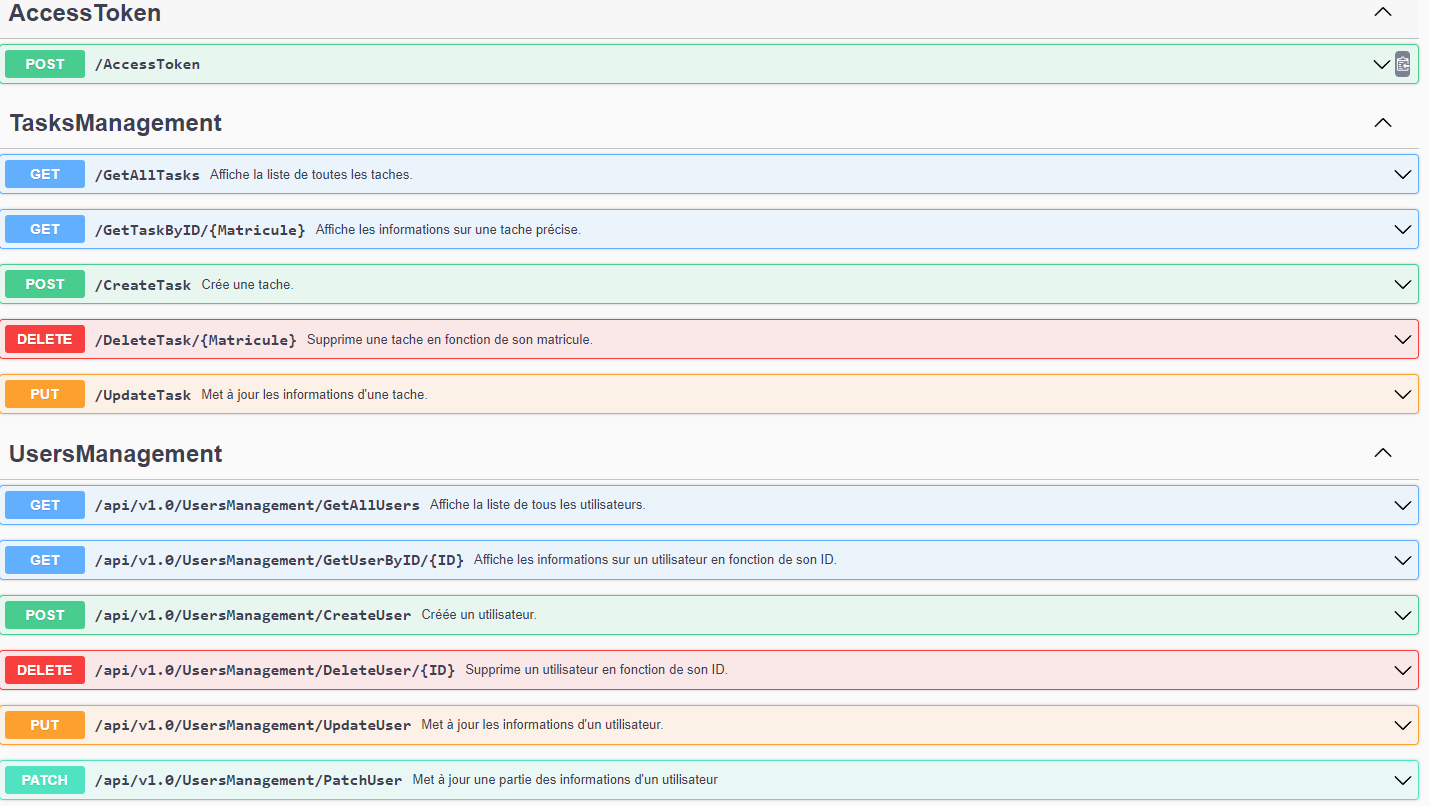
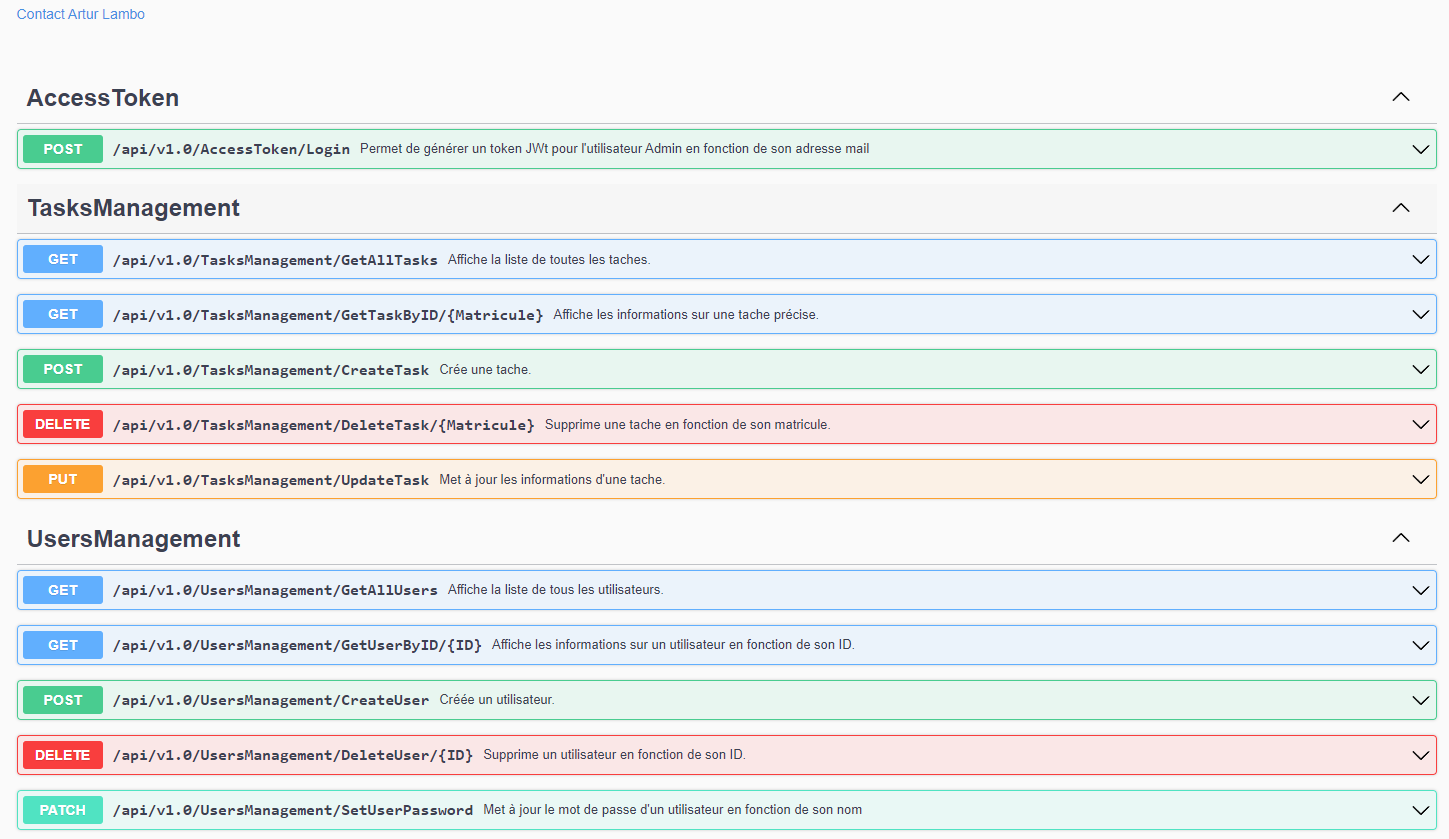
Maj du TasksManagement_API/Controllers/TasksManagementController.cs

Changed region(s): [[0.0, 0.062, 1.0, 0.9926], [0.0, 0.0, 0.1231, 0.031]]

diff --git a/TasksManagement_API/Controllers/TasksManagementController.cs b/TasksManagement_API/Controllers/TasksManagementController.cs
@@ -3,10 +3,8 @@ using Microsoft.AspNetCore.Mvc;
 using TasksManagement_API.Interfaces;
 using TasksManagement_API.Models;
 namespace TasksManagement_API.Controllers;
-
 [ApiController]
-//[Area("TasksDocumentation")]
-[Route("api/v1.0/")]
+[Route("api/v1.0/[controller]/")]
 
 public class TasksManagementController : ControllerBase
 {
@@ -23,7 +21,7 @@ public class TasksManagementController : ControllerBase
 	/// </summary>
 	/// <returns></returns>
 	[Authorize(Policy = "UserPolicy")]
-	[HttpGet("~/GetAllTasks")]
+	[HttpGet("GetAllTasks/")]
 	public async Task<IActionResult> GetAllTasks()
 	{
 		var taches = await readMethods.GetTaches();
@@ -36,7 +34,7 @@ public class TasksManagementController : ControllerBase
 	/// <param name="Matricule"></param>
 	/// <returns></returns>
 	[Authorize(Policy = "UserPolicy")]
-	[HttpGet("~/GetTaskByID/{Matricule:int}")]
+	[HttpGet("GetTaskByID/{Matricule:int}")]
 	public async Task<IActionResult> SelectTask(int Matricule)
 	{
 		try
@@ -59,7 +57,7 @@ public class TasksManagementController : ControllerBase
 	/// </summary>
 	/// <param name="tache"></param>
 	/// <returns></returns>
-	[HttpPost("~/CreateTask")]
+	[HttpPost("CreateTask/")]
 	public async Task<IActionResult> CreateTask([FromBody] Tache tache)
 	{
 		try
@@ -76,14 +74,13 @@ public class TasksManagementController : ControllerBase
 				}
 			};
 			var listTaches = await readMethods.GetTaches();
-			foreach (var item in listTaches)
-			{
-				if (item.Matricule == tache.Matricule)
-				{
+			var tacheExistante = listTaches.FirstOrDefault(item => item.Matricule == tache.Matricule);
 
-					return Conflict("Cette tache est déjà présente");
-				}
+			if (tacheExistante != null)
+			{
+				return Conflict("Cette tache est déjà présente");
 			}
+
 			await writeMethods.CreateTask(newTache);
 			return Ok("La ressource a bien été créée");
 		}
@@ -99,7 +96,7 @@ public class TasksManagementController : ControllerBase
 	/// <param name="Matricule"></param>
 	/// <returns></returns>
 	[Authorize(Policy = "AdminPolicy")]
-	[HttpDelete("~/DeleteTask/{Matricule:int}")]
+	[HttpDelete("DeleteTask/{Matricule:int}")]
 	public async Task<IActionResult> DeleteTaskById(int Matricule)
 	{
 		var tache = await readMethods.GetTaskById(Matricule);
@@ -126,7 +123,7 @@ public class TasksManagementController : ControllerBase
 	/// <param name="tache"></param>
 	/// <returns></returns>
 	[Authorize(Policy = "AdminPolicy")]
-	[HttpPut("~/UpdateTask")]
+	[HttpPut("UpdateTask/")]
 	public async Task<IActionResult> UpdateTask([FromBody] Tache tache)
 	{
 		try

diff --git a/TasksManagement_API/Program.cs b/TasksManagement_API/Program.cs
@@ -36,11 +36,6 @@ internal class Program
 				{
 					Name = "Artur Lambo",
 					Email = "lamboartur94@gmail.com"
-				},
-				License = new OpenApiLicense
-				{
-					Name = "Example License",
-					Url = new Uri("https://example.com/license")
 				}
 			});
 			opt.OperationFilter<RemoveParameterFilter>();
